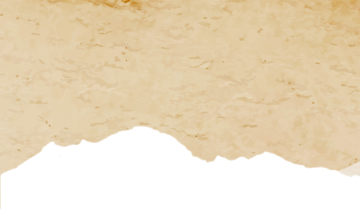
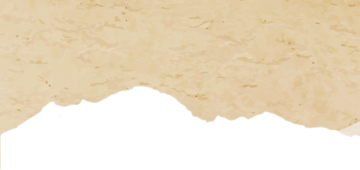
animation

diff --git a/frontend/src/pages/Main/style.scss b/frontend/src/pages/Main/style.scss
@@ -1,48 +1,5 @@
 @import "../../assets/scss/bundle.scss";
 
-.main-wrapper {
-  // background: center / cover no-repeat
-  //   url("../../../public/static/images/gold-bg.gif");
-  // position: relative;
-  height: 100svh;
-  width: 100%;
-  display: flex;
-  justify-content: center;
-  align-items: center;
-  outline: hidden;
-
-  .candles-left {
-    position: absolute;
-    width: 20%;
-    top: 35%;
-    left: 0;
-    outline: hidden;
-  }
-
-  .candles-right {
-    position: absolute;
-    width: 20%;
-    top: 3%;
-    right: 0;
-  }
-
-  @include Tablet {
-    .mask-top {
-      width: 35%;
-    }
-  }
-
-  @include Mobile {
-    .mask-top {
-      width: 80%;
-    }
-
-    .candles-right {
-      width: 30%;
-    }
-  }
-}
-
 .main {
   width: 100%;
   height: 100svh;
@@ -51,18 +8,44 @@
   display: flex;
   justify-content: center;
   align-items: center;
+  background: rgb(238, 237, 237);
 
-  img {
-    position: absolute;
-    top: 0;
-    left: 0;
+  .photo {
+    // position: absolute;
+    // top: 0;
+    // left: 0;
     object-fit: cover;
     object-position: center;
     width: 100%;
     height: 100svh;
 
     animation: fadeOut 2s ease-in-out forwards;
+    animation-delay: 4s;
+  }
+
+  .bg-top-wrapper {
+    width: 100%;
+    position: absolute;
+    top: 0;
+    z-index: 1;
+    opacity: 0;
+
+    animation: fadeIn 3s ease-in-out forwards;
     animation-delay: 5s;
+
+    .mask-top {
+      position: absolute;
+      top: 0;
+      left: 0;
+      width: 80%;
+    }
+
+    .spark {
+      position: absolute;
+      top: -20px;
+      width: 50%;
+      right: 0;
+    }
   }
 
   &__context {
@@ -76,15 +59,14 @@
     align-items: center;
     gap: 12px;
 
-    color: #000;
     opacity: 0;
-    animation: fadeIn 2s ease-in-out forwards;
+    animation: fadeIn 5s ease-in-out forwards;
     animation-delay: 5s;
   }
 
   @keyframes fadeOut {
     to {
-      opacity: 0;
+      opacity: 0.1;
     }
   }
 

diff --git a/frontend/src/App.scss b/frontend/src/App.scss
@@ -5,31 +5,15 @@
   align-items: center;
   margin: 0 auto;
 
-  .bg-top-wrapper {
-    width: 100%;
-    position: absolute;
-    z-index: 1;
-
-    .mask-top {
-      position: absolute;
-      top: 0;
-      left: 0;
-      width: 90%;
-    }
-
-    .spark {
-      position: absolute;
-      top: 30px;
-      width: 50%;
-      right: 0;
-    }
-  }
-
   .bg-program-wrapper {
     position: relative;
     top: -20vh;
     z-index: 1;
     width: 100%;
+
+    opacity: 0;
+    animation: fadeIn 5s ease-in-out forwards;
+    animation-delay: 5s;
 
     .mask-bottom {
       width: 75%;
@@ -66,6 +50,15 @@
       position: absolute;
       bottom: -20%;
       right: 0;
+    }
+  }
+
+  @keyframes fadeIn {
+    from {
+      opacity: 0;
+    }
+    to {
+      opacity: 1;
     }
   }
 }

diff --git a/frontend/src/pages/Main/index.tsx b/frontend/src/pages/Main/index.tsx
@@ -2,8 +2,17 @@ import "./style.scss"
 
 const Main = () => {
   return (
-    <div className="main container">
+    <div className="main">
       <img className="photo" src="/static/images/photo.jpg" alt="photo" />
+      <div className="bg-top-wrapper">
+        <img className="bg-top" src="/static/images/bg-top.png" alt="bg-top" />
+        <img
+          className="mask-top"
+          src="/static/images/mask-top1.png"
+          alt="mask-top"
+        />
+        <img className="spark" src="/static/images/spark1.png" alt="mask-top" />
+      </div>
       <div className="main__context">
         <h1 className="main__title antarctic">
           Дидар

diff --git a/frontend/src/App.tsx b/frontend/src/App.tsx
@@ -10,15 +10,6 @@ import "./App.scss"
 function App() {
   return (
     <div className="wrapper">
-      <div className="bg-top-wrapper">
-        <img className="bg-top" src="/static/images/bg-top.png" alt="bg-top" />
-        <img
-          className="mask-top"
-          src="/static/images/mask-top1.png"
-          alt="mask-top"
-        />
-        <img className="spark" src="/static/images/spark1.png" alt="mask-top" />
-      </div>
       <Main />
       <div className="bg-program-wrapper">
         <img
